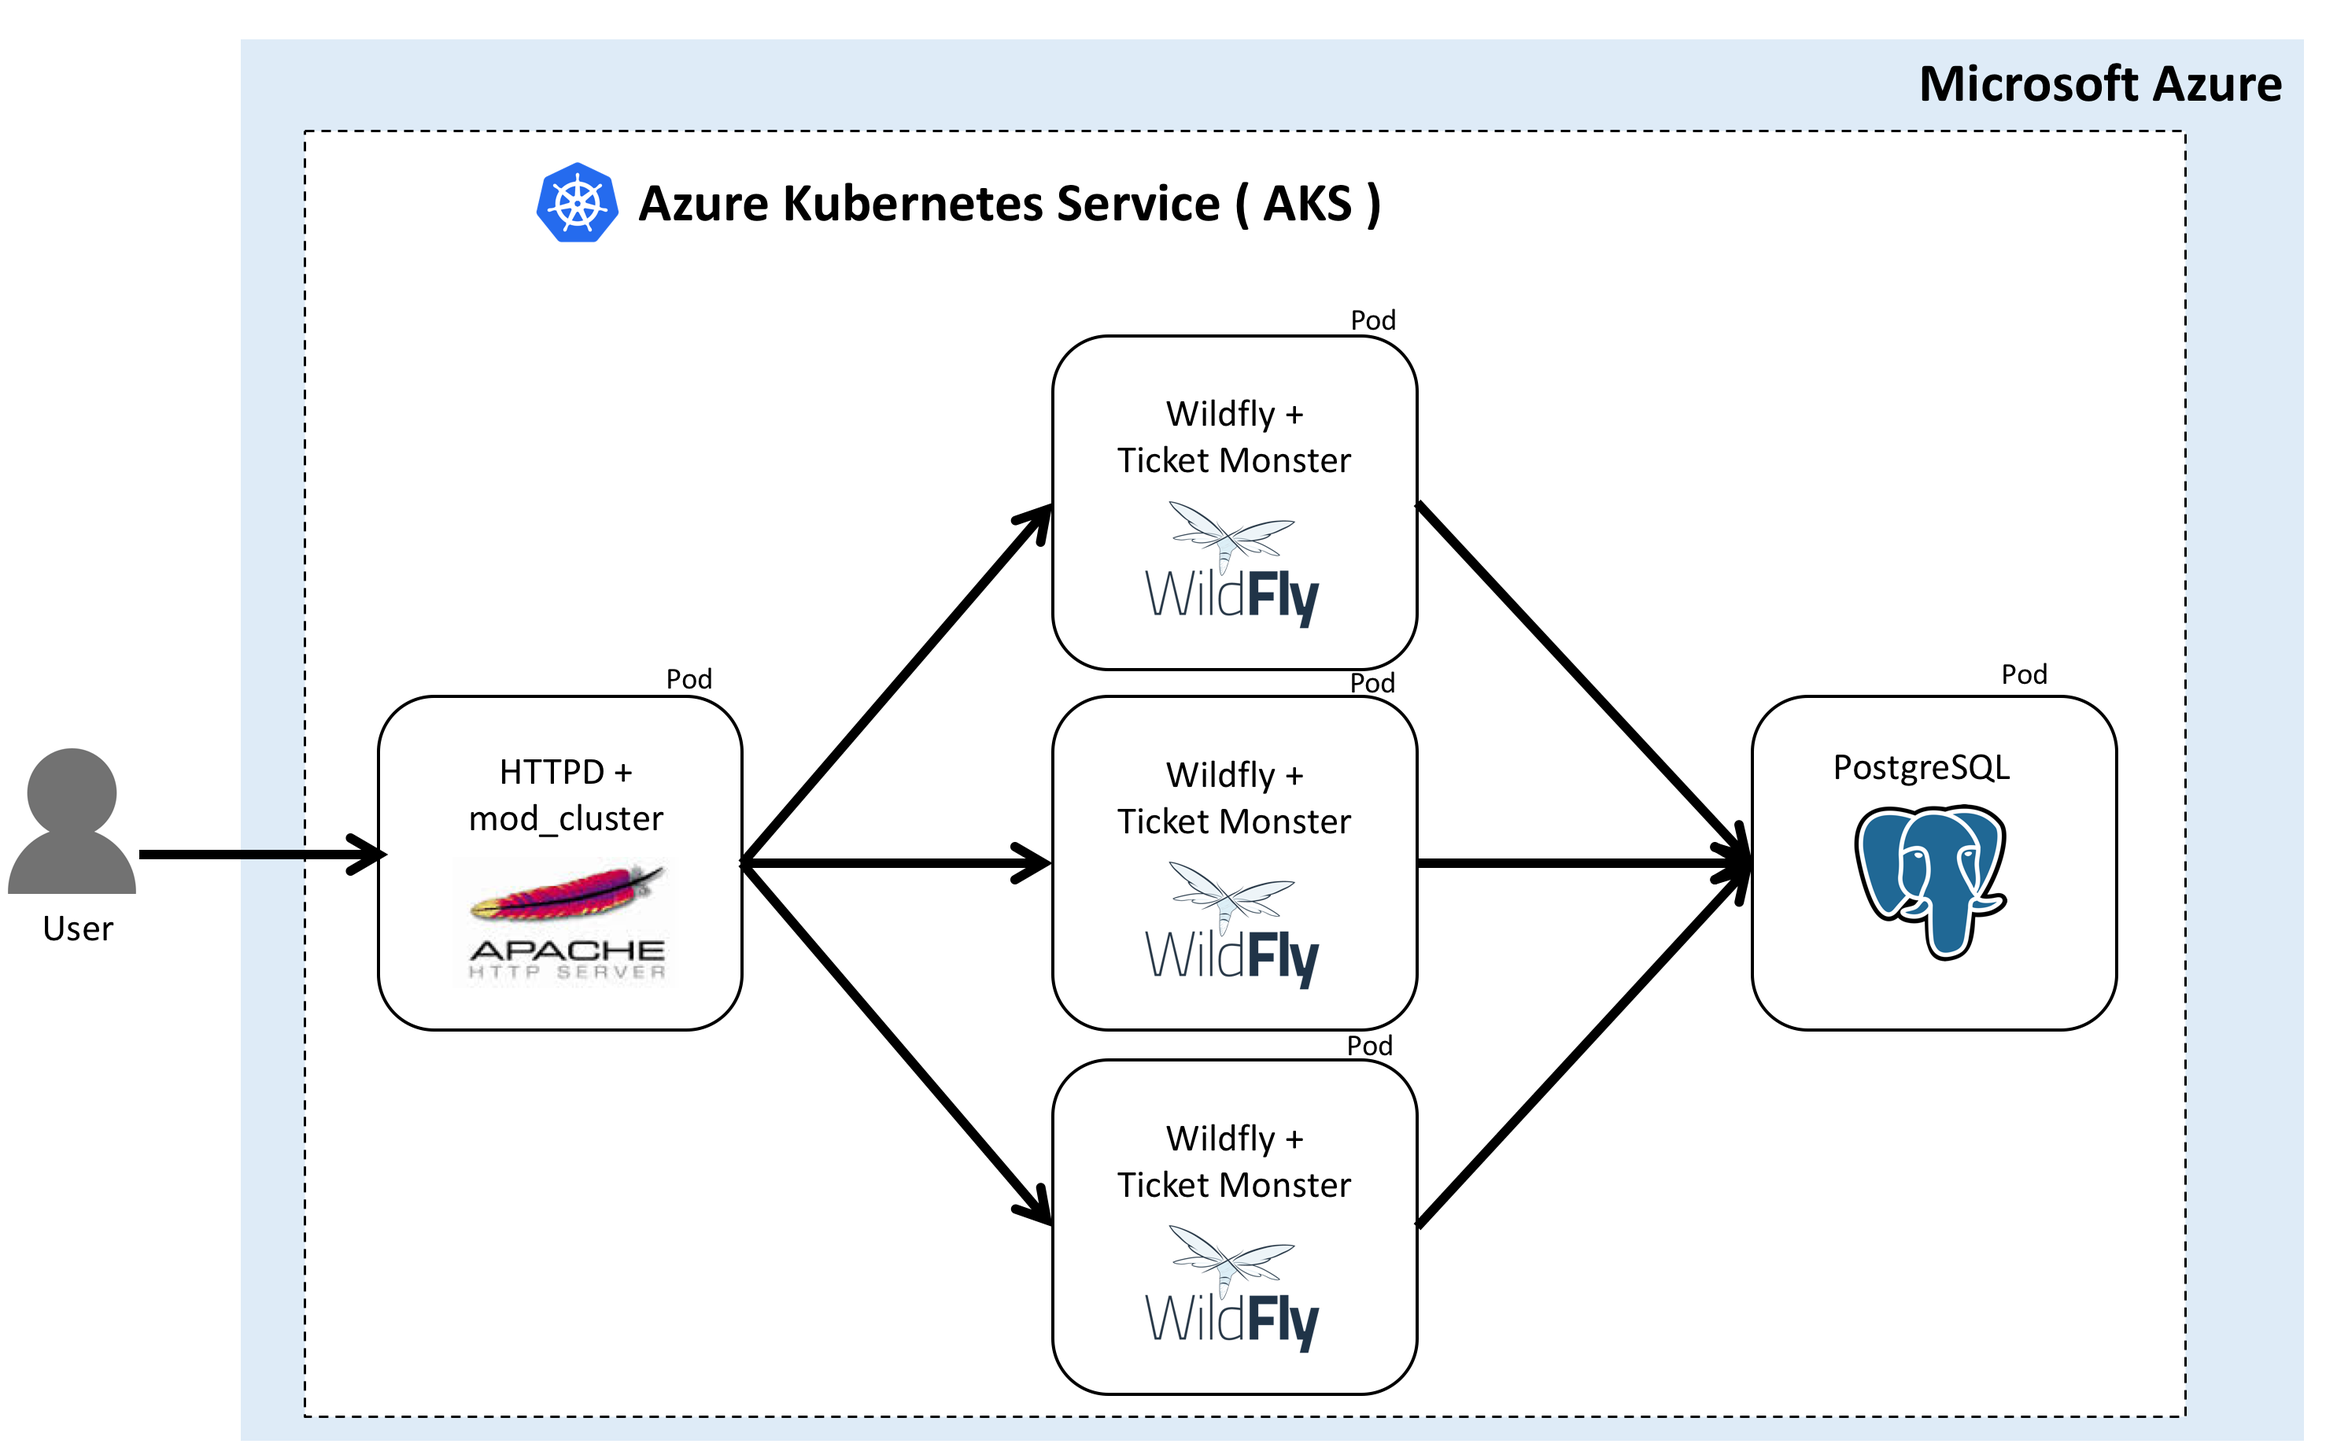
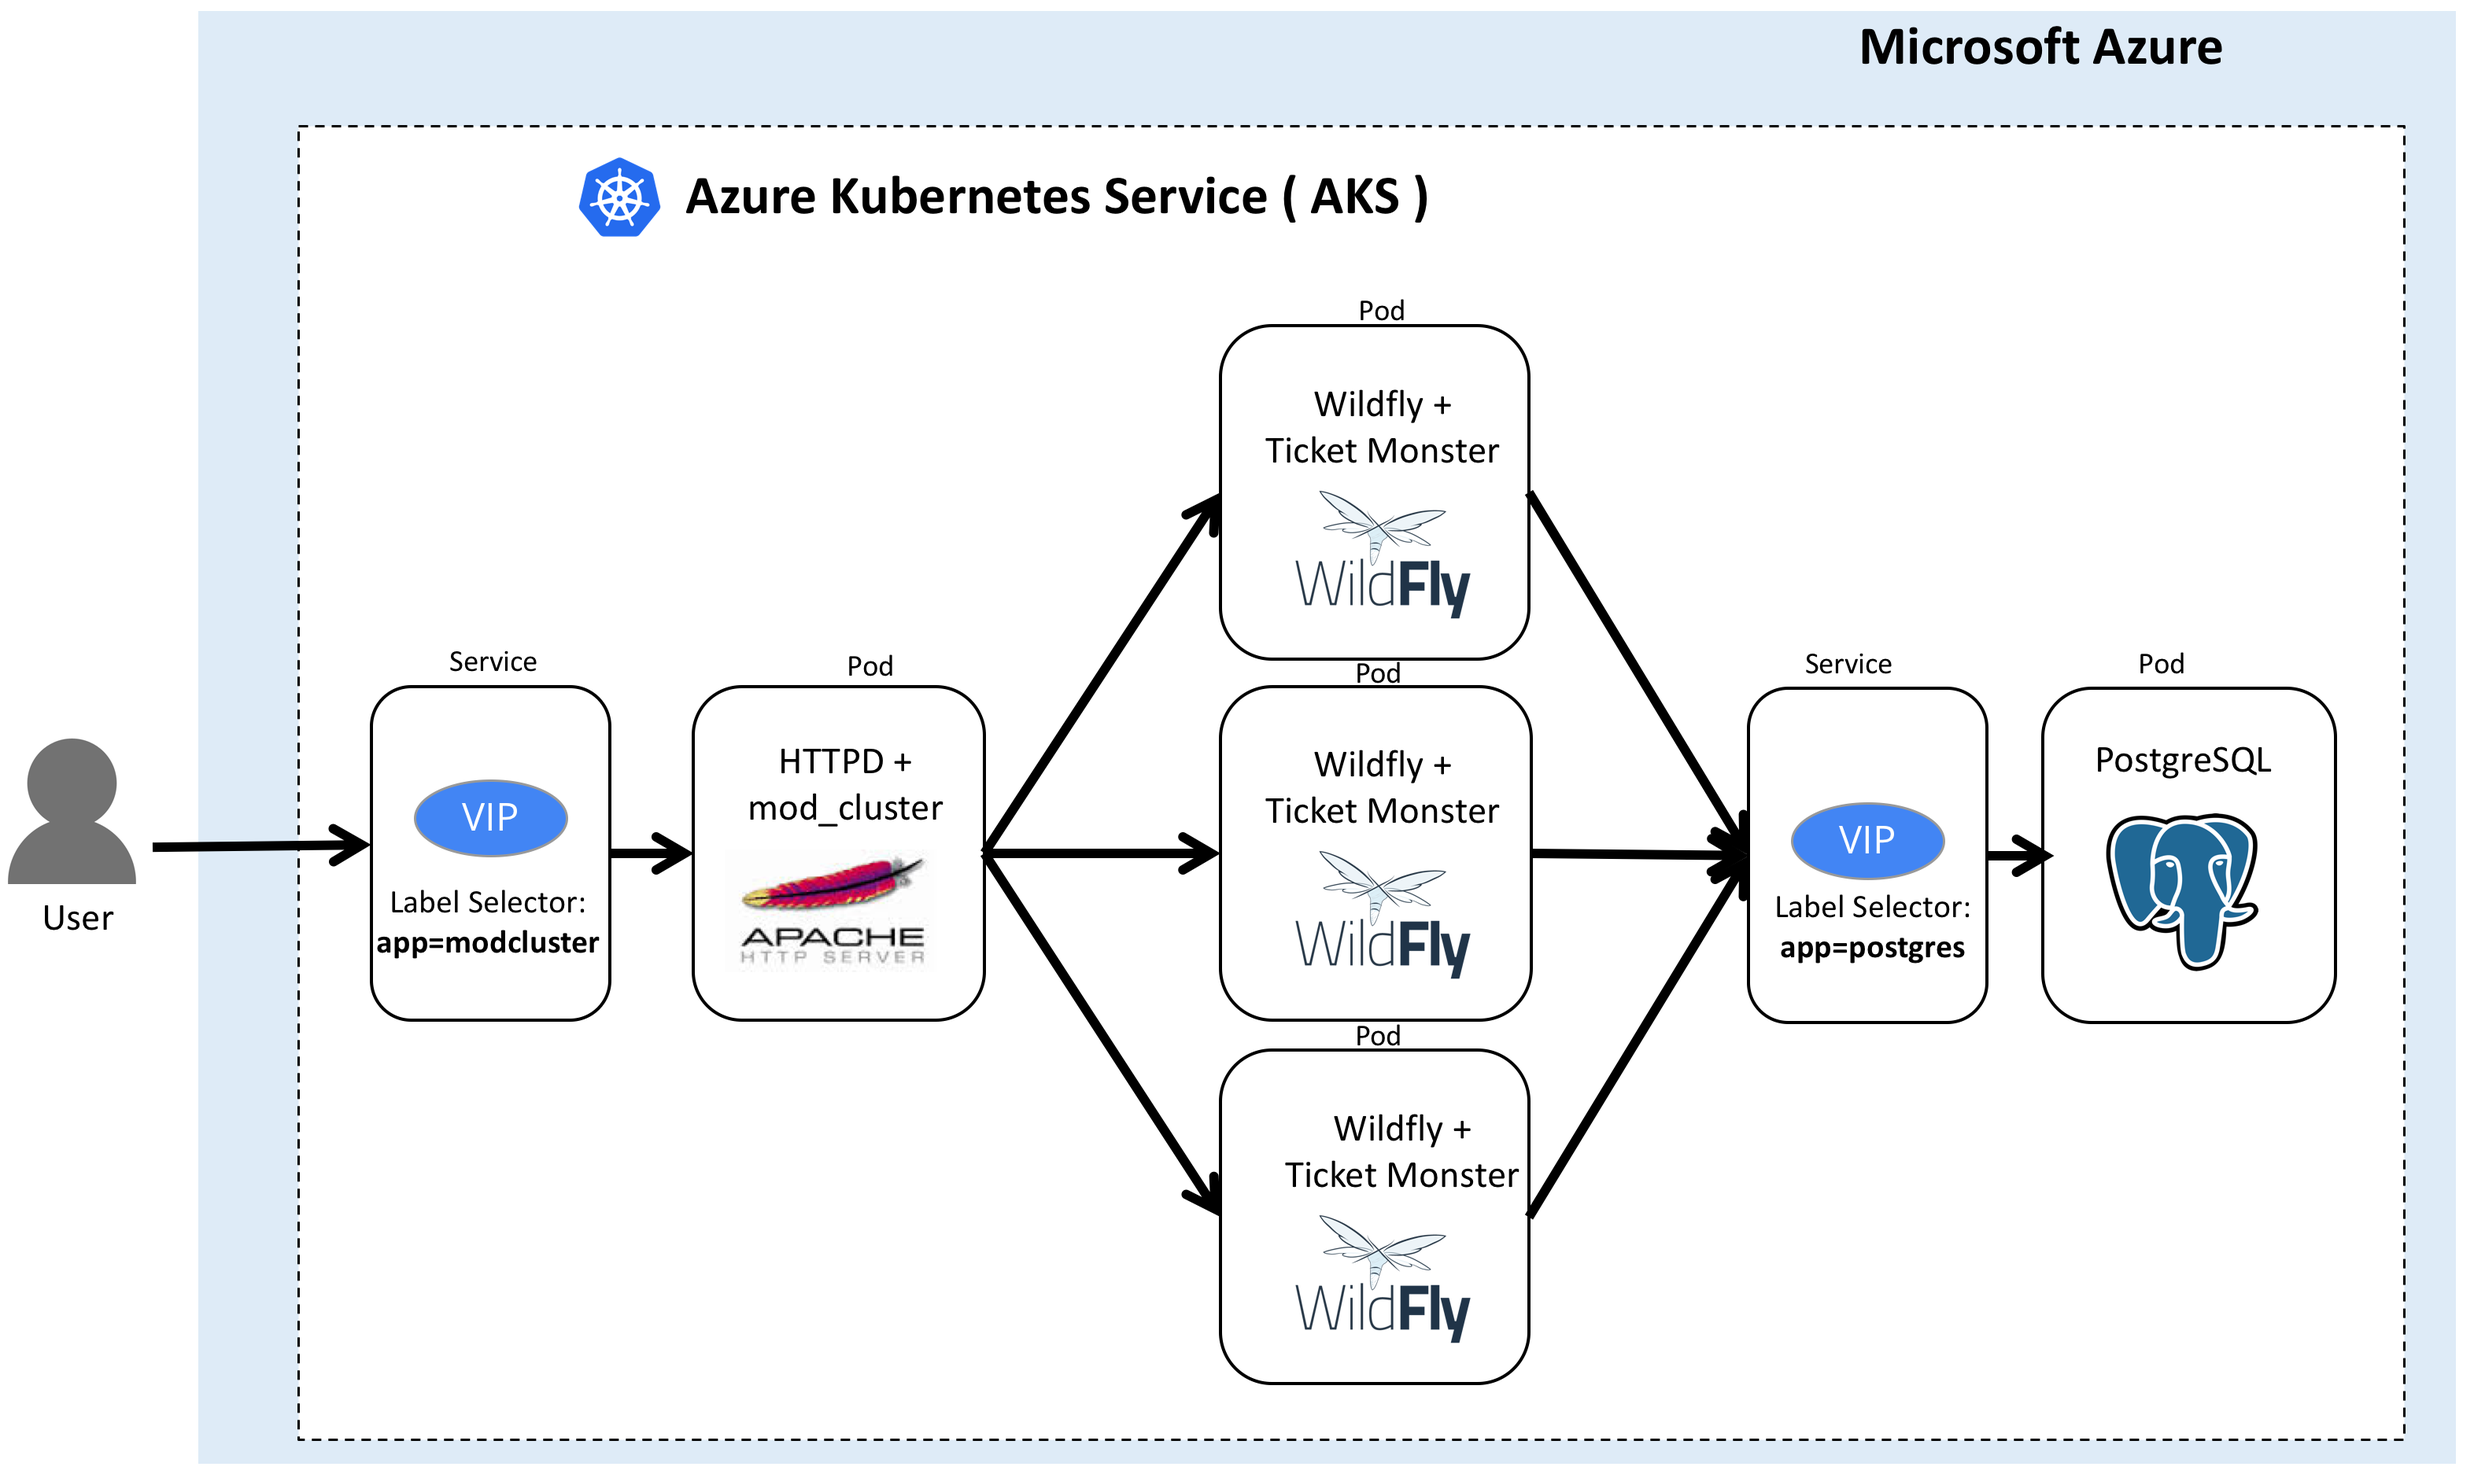
Update architecture diagram

Changed region(s): [[0.0, 0.0, 0.9959, 1.0], [0.3424, 0.4328, 0.4046, 0.4946], [0.2801, 0.4637, 0.3112, 0.4946]]

diff --git a/README.md b/README.md
@@ -9,7 +9,7 @@ Demo clusters in the project:
 
 ## Cluster1: Azure Kubernetes Services (AKS) and Azure PaaS Services
 
-![](images/azure-k8s-daas-oms-ticketmonster-demo-arch.png)
+![](images/azure-k8s-cluster1-arch.png)
 
 The pieces of this demo are:
 
